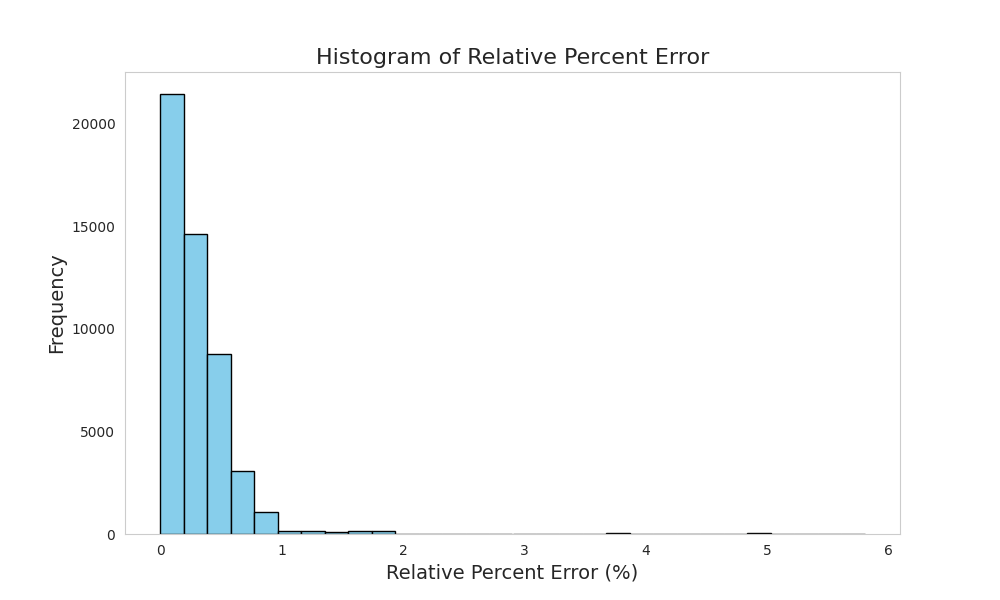
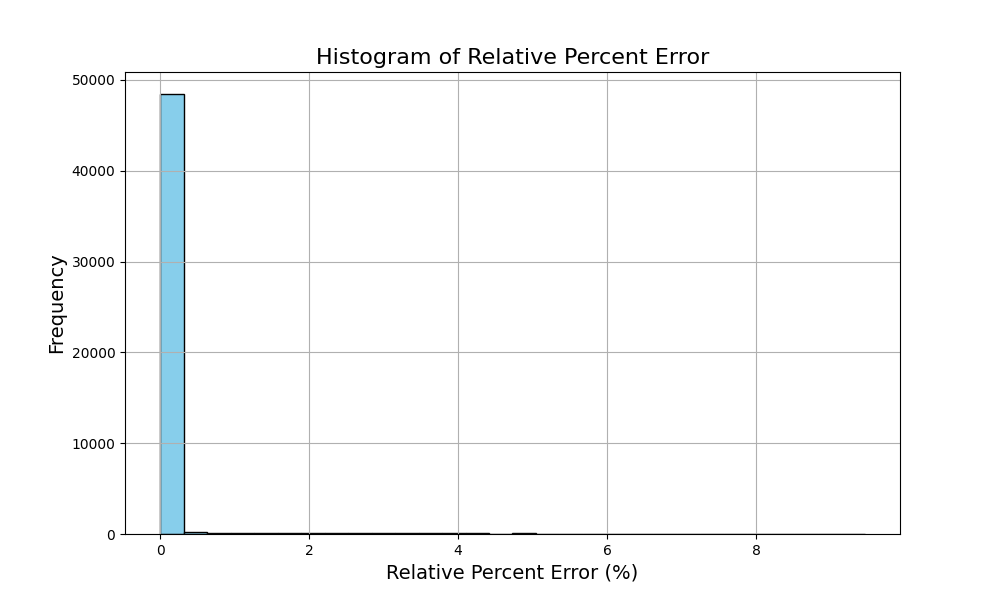
...

diff --git a/NM4_Fermilab/Training_Simple.py b/NM4_Fermilab/Training_Simple.py
@@ -38,33 +38,35 @@ if physical_devices:
     tf.config.experimental.set_memory_growth(physical_devices[0], True)
     print(f"Using GPU: {physical_devices[0]}")
 
-# File paths and versioning
-data_path = find_file("Deuteron_Low_No_Noise_500K.csv")  
-version = 'Deuteron_Low_Noise_HighPrecision_V3'  
+
+data_path = find_file("Deuteron_2_100_No_Noise_500K.csv")  
+data_path_lower = find_file("Deuteron_0_2_No_Noise_500K.csv")  
+data_path_lowest = find_file("Deuteron_Low_No_Noise_500K.csv")  
+version = 'Deuteron_All_No_Noise_XGBoost_V1'  
 performance_dir = f"Model Performance/{version}"  
 model_dir = f"Models/{version}"  
 os.makedirs(performance_dir, exist_ok=True)
 os.makedirs(model_dir, exist_ok=True)
-# Load and prepare data
+
 print("Loading and preparing data...")
 data = pd.read_csv(data_path)
+data_lower = pd.read_csv(data_path_lower)
+data_lowest = pd.read_csv(data_path_lowest)
 
-# Scale the input features
+data = pd.concat([data, data_lower, data_lowest], ignore_index=True)
+
 feature_scaler = MinMaxScaler()
 X = data.drop(columns=["P", 'SNR']).astype('float64').values
 X_scaled = feature_scaler.fit_transform(X)
 
-# Do not scale the target values
 y = data["P"].astype('float64')
 
-# Split data
 print("Splitting data...")
 train_data, temp_data = train_test_split(data, test_size=0.3, random_state=42)
 val_data, test_data = train_test_split(temp_data, test_size=1/3, random_state=42)
 
-# Define the target value and range
 target_value = 0.0005
-range_margin = 0.0005  # Define a margin around the target value
+range_margin = 0.00005  
 multiplication_factor = 5  # Define how many times to duplicate the augmented data
 
 # Filter the training data for values around 0.05%
@@ -75,7 +77,6 @@ augmented_data = train_data[mask]
 augmented_data = pd.concat([augmented_data] * multiplication_factor, ignore_index=True)
 train_data = pd.concat([train_data, augmented_data], ignore_index=True)
 
-# Prepare feature matrices
 X_train = train_data.drop(columns=["P", 'SNR']).astype('float64').values
 y_train = train_data["P"].astype('float64')
 X_val = val_data.drop(columns=["P", 'SNR']).astype('float64').values
@@ -83,36 +84,34 @@ y_val = val_data["P"].astype('float64')
 X_test = test_data.drop(columns=["P", 'SNR']).astype('float64').values
 y_test = test_data["P"].astype('float64')
 
-# Scale the training, validation, and test sets for features only
-X_train_scaled = feature_scaler.fit_transform(X_train)  # Fit and transform on training data
-X_val_scaled = feature_scaler.transform(X_val)  # Transform validation data
-X_test_scaled = feature_scaler.transform(X_test)  # Transform test data
+X_train_scaled = feature_scaler.fit_transform(X_train)  
+X_val_scaled = feature_scaler.transform(X_val)
+X_test_scaled = feature_scaler.transform(X_test)  
 
 # Free up memory
 del data, train_data, val_data, test_data
 import gc
 gc.collect()
 
-# Create and train the XGBoost model with the custom loss function
 xgb_model = XGBRegressor(
-    n_estimators=5000,  # Reduced number of boosting stages for simplicity
-    learning_rate=0.01,  # Increased learning rate for faster convergence
-    max_depth=7,  # Reduced maximum depth to simplify the model
+    n_estimators=5000, 
+    learning_rate=0.01, 
+    max_depth=4,  
     random_state=42,
-    eval_metric='rmse',  # Metric to evaluate
-    objective='reg:squarederror',  # Objective function for regression
-    tree_method='gpu_hist',  # Use GPU for training
-    early_stopping_rounds=50,  # Reduced rounds for early stopping
-    alpha=0.1,  # Removed L1 regularization term
-    lambda_=0.1,  # Removed L2 regularization term
+    eval_metric='rmse',  
+    objective='reg:squarederror',  
+    tree_method='gpu_hist', 
+    early_stopping_rounds=50,  
+    alpha=0.1,  # L1 regularization term
+    lambda_=2,  # L2 regularization term
     subsample=0.8  # Use 80% of the data for each boosting round
 )
 
-# Fit the model with the custom loss function
 xgb_model.fit(X_train_scaled, y_train,
-              eval_set=[(X_val_scaled, y_val)],  # Specify the validation set
+              eval_set=[(X_val_scaled, y_val)],  
               verbose=True)
-# Make predictions
+
+
 y_val_pred = xgb_model.predict(X_val_scaled)
 y_test_pred = xgb_model.predict(X_test_scaled)
 
@@ -121,7 +120,6 @@ y_test *= 100
 y_val_pred *= 100
 y_test_pred *= 100
 
-# Evaluate the model
 val_mae = mean_absolute_error(y_val, y_val_pred)
 val_rmse = mean_squared_error(y_val, y_val_pred, squared=False)
 
@@ -133,14 +131,12 @@ print(f"Validation RMSE: {val_rmse:.6f}")
 print(f"Test MAE: {test_mae:.6f}")
 print(f"Test RMSE: {test_rmse:.6f}")
 
-# Calculate relative percent error
 relative_percent_error = np.abs((y_test - y_test_pred) / y_test) * 100
 
-# Create a directory for saving model performance plots
-output_dir = 'Model Performance/XGBoost_PerformanceV2'
-os.makedirs(output_dir, exist_ok=True)
+# Filter out outliers where RPE is greater than 10%
+mask_outliers = relative_percent_error <= 10  # Create a mask for RPE less than or equal to 10%
+relative_percent_error_filtered = relative_percent_error[mask_outliers]
 
-# Plotting the training and validation losses
 plt.figure(figsize=(10, 6))
 plt.plot(np.arange(1, len(xgb_model.evals_result()['validation_0']['rmse']) + 1), 
          xgb_model.evals_result()['validation_0']['rmse'], label='Validation Loss', color='orange')
@@ -149,27 +145,24 @@ plt.xlabel('Number of Iterations', fontsize=14)
 plt.ylabel('Root Mean Squared Error', fontsize=14)
 plt.legend()
 plt.grid()
-# Save the figure
-plt.savefig(os.path.join(output_dir, 'validation_loss.png'))
-plt.close()  # Close the figure to free up memory
+plt.savefig(os.path.join(performance_dir, 'validation_loss.png'))
+plt.close()
 
 # Histogram of relative percent error
 plt.figure(figsize=(10, 6))
-plt.hist(relative_percent_error, bins=30, color='skyblue', edgecolor='black')
+plt.hist(relative_percent_error, bins=200, color='skyblue', edgecolor='black')
 plt.title('Histogram of Relative Percent Error', fontsize=16)
 plt.xlabel('Relative Percent Error (%)', fontsize=14)
 plt.ylabel('Frequency', fontsize=14)
 plt.grid()
-# Save the figure
-plt.savefig(os.path.join(output_dir, 'relative_percent_error_histogram.png'))
-plt.close()  # Close the figure to free up memory
+plt.savefig(os.path.join(performance_dir, 'relative_percent_error_histogram.png'))
+plt.close()  
 
-# Create a figure with two subplots
 plt.figure(figsize=(12, 6))
 
 # First subplot: Original scatter plot
 plt.subplot(1, 2, 1)
-plt.scatter(y_test, relative_percent_error, alpha=0.5)
+plt.scatter(y_test, relative_percent_error_filtered, alpha=0.5)
 plt.title('Relative Percent Error as a Function of Polarization', fontsize=16)
 plt.xlabel('Polarization', fontsize=14)
 plt.ylabel('Relative Percent Error (%)', fontsize=14)
@@ -178,12 +171,11 @@ plt.grid()
 # Second subplot: Focused scatter plot for polarizations < 0.06%
 plt.subplot(1, 2, 2)
 mask = y_test < 0.06  # Create a mask for polarizations less than 0.06%
-plt.scatter(y_test[mask], relative_percent_error[mask], alpha=0.5, color='orange')
+plt.scatter(y_test[mask], relative_percent_error_filtered[mask], alpha=0.5, color='orange')
 plt.title('Relative Percent Error for Polarization < 0.06%', fontsize=16)
 plt.xlabel('Polarization', fontsize=14)
 plt.ylabel('Relative Percent Error (%)', fontsize=14)
 plt.grid()
 
-# Save the figure
-plt.savefig(os.path.join(output_dir, 'relative_percent_error_vs_polarization_combined.png'))
-plt.close()  # Close the figure to free up memory
+plt.savefig(os.path.join(performance_dir, 'relative_percent_error_vs_polarization_combined.png'))
+plt.close()  
